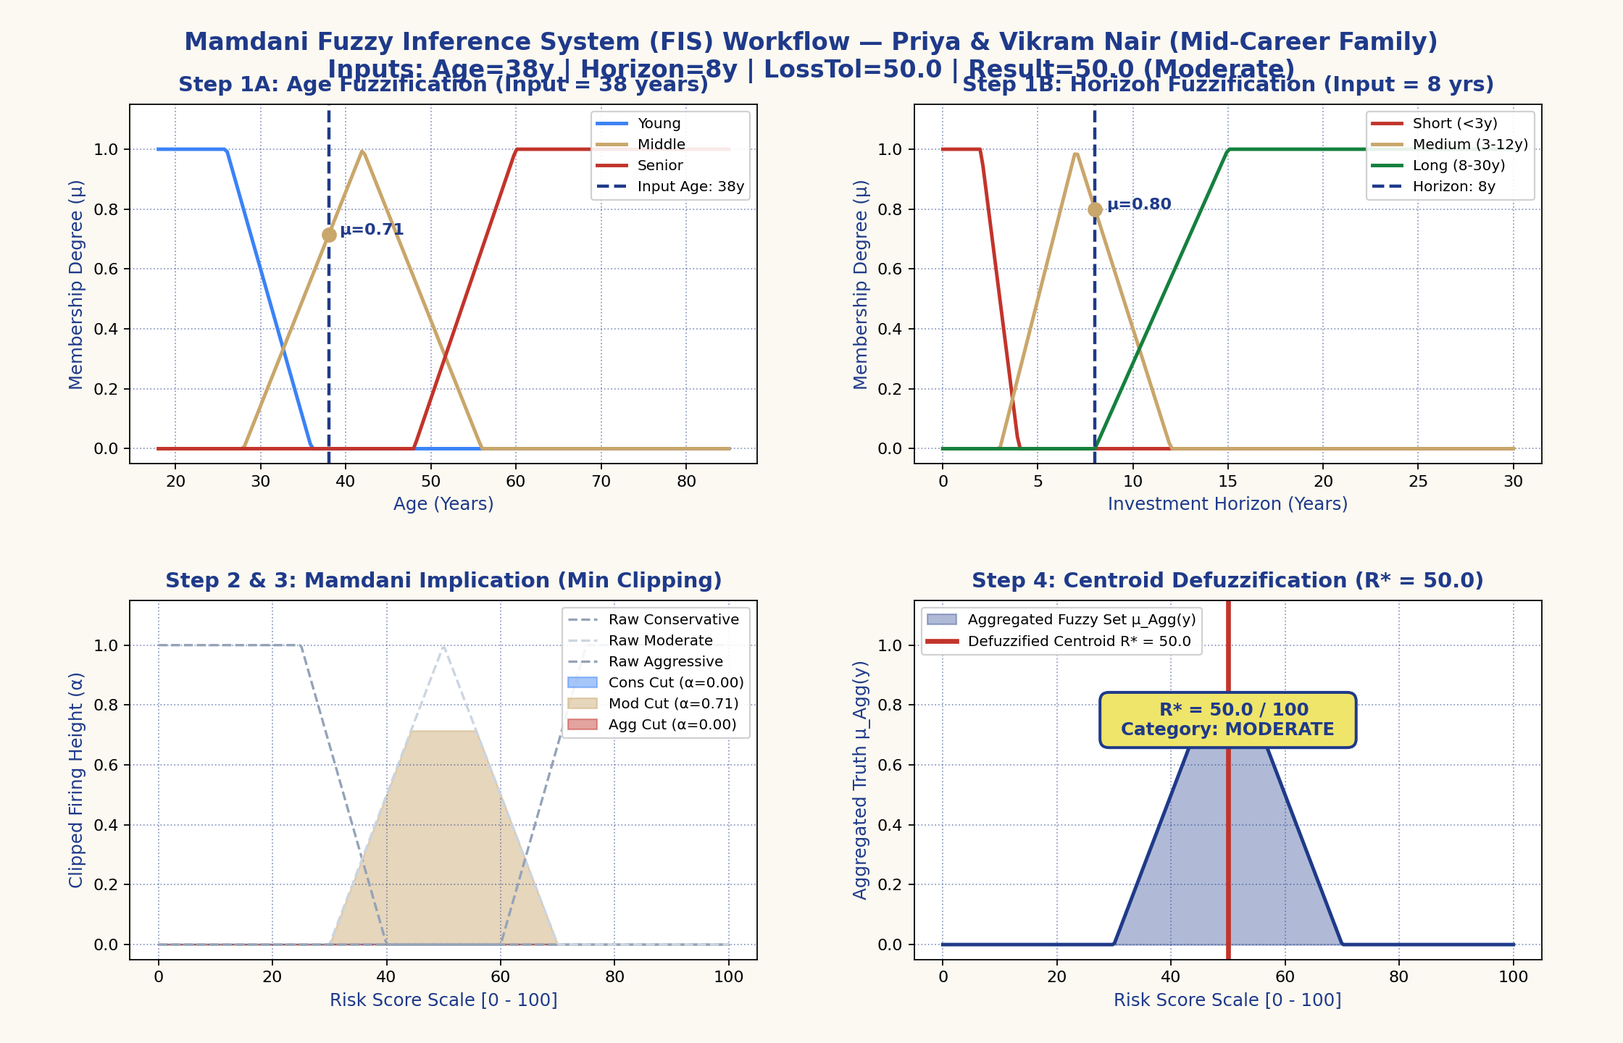
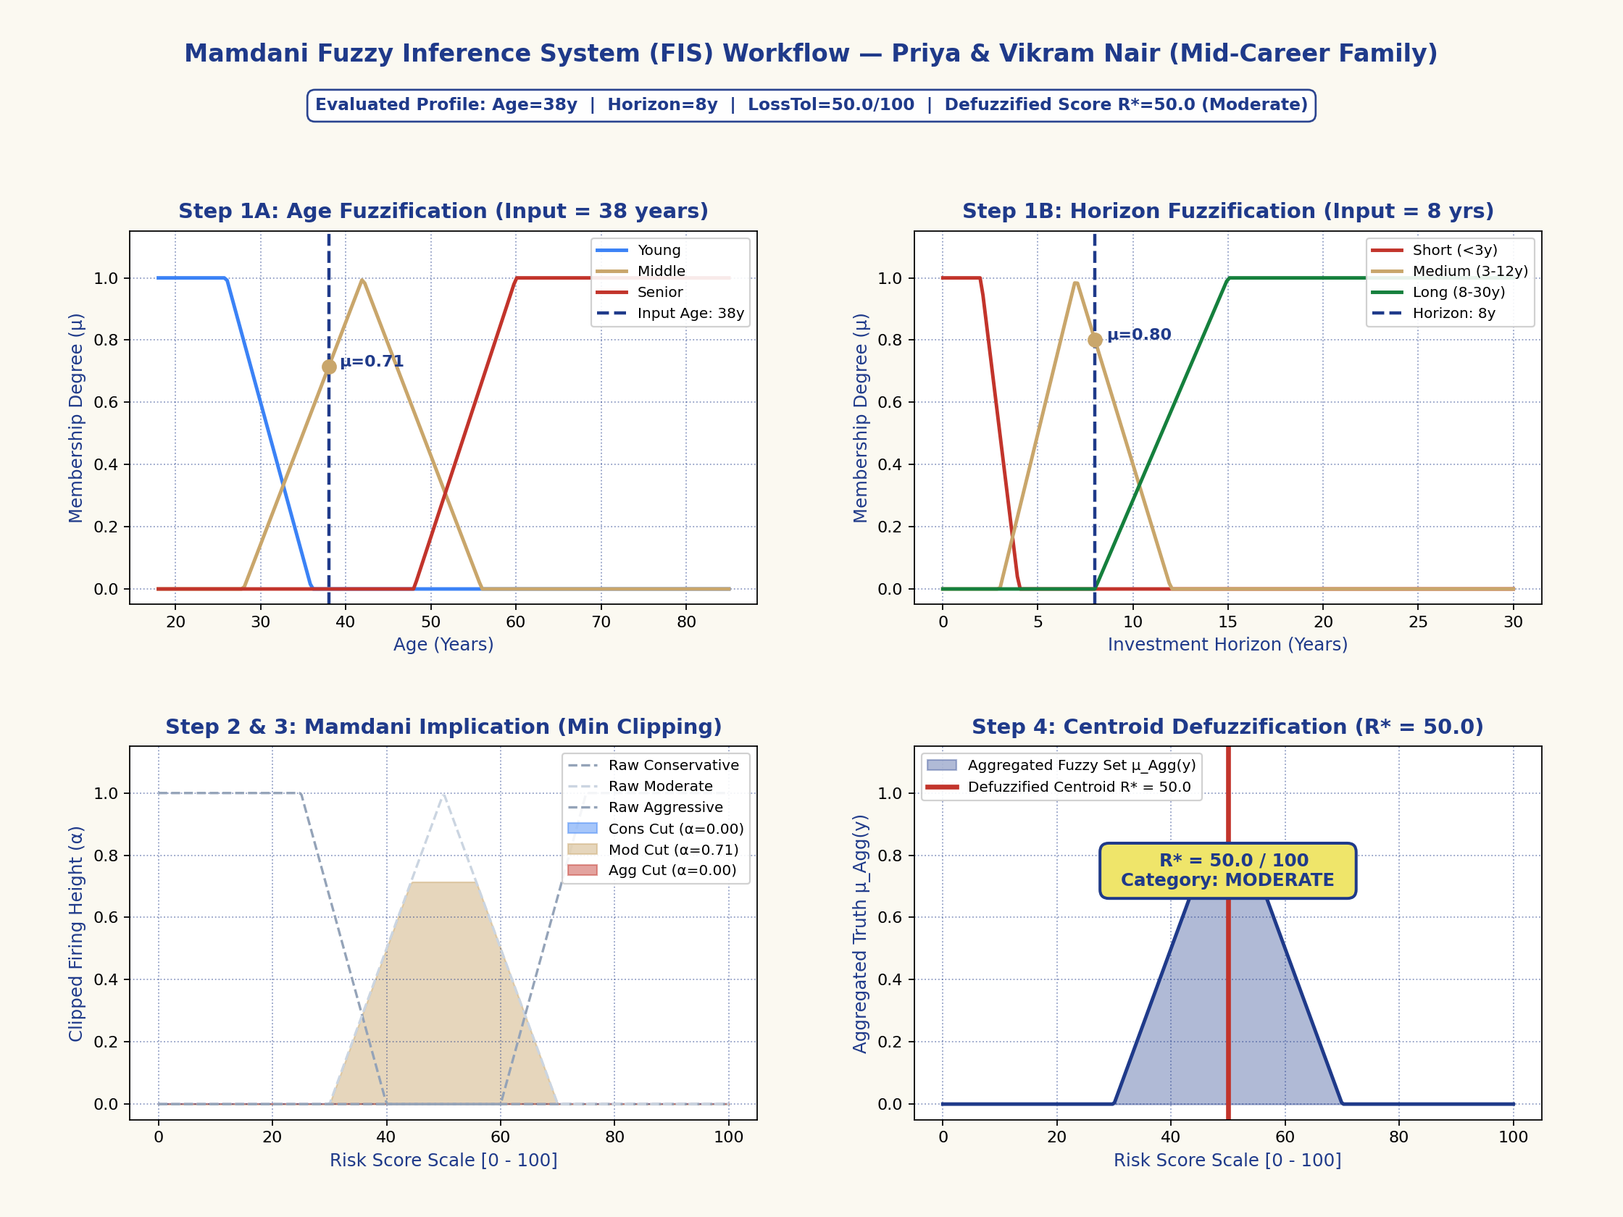
fix(chatbot): intelligent intent-grounded advisor fallback, fix Mamdani layout and 4-stage UI

diff --git a/frontend/index.html b/frontend/index.html
@@ -1369,14 +1369,66 @@
           </div>
         </div>
 
-        <div class="card-body" id="mamdani-plot-container" style="padding: 20px 24px;">
-          <p style="font-size:14px; color:var(--ink-deep); line-height:1.6; margin-bottom:14px;">
-            <strong>Mamdani 4-Stage Theoretical Model:</strong>
-            (1) <em>Fuzzification</em> maps client Age & Horizon onto membership functions.
-            (2) <em>Rule Base</em> fires simultaneous rules with continuous truth strengths α.
-            (3) <em>Mamdani Implication</em> clips output consequents at firing heights.
-            (4) <em>Centroid Defuzzification</em> evaluates Center of Gravity (R* = ∫ r · μ(r) dr / ∫ μ(r) dr) to yield the exact crisp risk score.
-          </p>
+          <!-- Structured 4-Stage Mamdani Architecture Overview -->
+          <div style="background: var(--cream); border: 1.5px solid var(--ink); border-radius: var(--radius-sm); padding: 16px 20px; margin-bottom: 20px; box-shadow: 2px 2px 0 0 var(--ink);">
+            <div style="display: flex; justify-content: space-between; align-items: center; flex-wrap: wrap; gap: 8px; margin-bottom: 12px; padding-bottom: 10px; border-bottom: 1.5px dashed rgba(31,58,138,0.25);">
+              <div>
+                <span style="font-family: 'DM Mono', monospace; font-size: 11px; font-weight: 700; color: var(--ink); text-transform: uppercase; letter-spacing: 0.5px; background: #ffffff; border: 1px solid var(--ink); padding: 3px 8px; border-radius: 4px;">ALGORITHMIC ARCHITECTURE</span>
+                <strong style="font-size: 14px; color: var(--ink); margin-left: 8px;">4-Stage Continuous Mamdani FIS Pipeline</strong>
+              </div>
+              <span style="font-family: 'DM Mono', monospace; font-size: 11px; color: #4B5563; font-weight: 600;">Mathematical Invariant: ∑ Allocation = 100.0% · Zero Cliff Discontinuities</span>
+            </div>
+
+            <div style="display: grid; grid-template-columns: repeat(auto-fit, minmax(220px, 1fr)); gap: 12px;">
+              <!-- Stage 1 -->
+              <div style="background: #ffffff; border: 1.5px solid var(--ink); border-radius: var(--radius-sm); padding: 12px 14px; box-shadow: 2px 2px 0 0 rgba(31,58,138,0.2);">
+                <div style="display: flex; justify-content: space-between; align-items: center; margin-bottom: 6px;">
+                  <span style="font-family: 'DM Mono', monospace; font-size: 10px; font-weight: 700; color: #1E40AF; background: #DBEAFE; padding: 2px 6px; border-radius: 3px; border: 1px solid #93C5FD;">STAGE 1</span>
+                  <span style="font-family: 'DM Mono', monospace; font-size: 11px; font-weight: 600; color: var(--ink);">μ_A(x) ∈ [0, 1]</span>
+                </div>
+                <div style="font-size: 13px; font-weight: 700; color: var(--ink); margin-bottom: 4px;">Fuzzification</div>
+                <div style="font-size: 11.5px; color: var(--ink-deep); line-height: 1.45;">
+                  Maps crisp inputs (Age, Horizon, Loss Tolerance, Stability) to linguistic truth degrees via triangular & trapezoidal curves.
+                </div>
+              </div>
+
+              <!-- Stage 2 -->
+              <div style="background: #ffffff; border: 1.5px solid var(--ink); border-radius: var(--radius-sm); padding: 12px 14px; box-shadow: 2px 2px 0 0 rgba(31,58,138,0.2);">
+                <div style="display: flex; justify-content: space-between; align-items: center; margin-bottom: 6px;">
+                  <span style="font-family: 'DM Mono', monospace; font-size: 10px; font-weight: 700; color: #B45309; background: #FEF3C7; padding: 2px 6px; border-radius: 3px; border: 1px solid #FCD34D;">STAGE 2</span>
+                  <span style="font-family: 'DM Mono', monospace; font-size: 11px; font-weight: 600; color: var(--ink);">α_i = min(μ_j)</span>
+                </div>
+                <div style="font-size: 13px; font-weight: 700; color: var(--ink); margin-bottom: 4px;">T-Norm Rule Firing</div>
+                <div style="font-size: 11.5px; color: var(--ink-deep); line-height: 1.45;">
+                  Evaluates 9 deterministic rules simultaneously. Multi-antecedent conjunction uses Gödel Min T-Norm to compute firing truth strength α.
+                </div>
+              </div>
+
+              <!-- Stage 3 -->
+              <div style="background: #ffffff; border: 1.5px solid var(--ink); border-radius: var(--radius-sm); padding: 12px 14px; box-shadow: 2px 2px 0 0 rgba(31,58,138,0.2);">
+                <div style="display: flex; justify-content: space-between; align-items: center; margin-bottom: 6px;">
+                  <span style="font-family: 'DM Mono', monospace; font-size: 10px; font-weight: 700; color: #4338CA; background: #E0E7FF; padding: 2px 6px; border-radius: 3px; border: 1px solid #A5B4FC;">STAGE 3</span>
+                  <span style="font-family: 'DM Mono', monospace; font-size: 11px; font-weight: 600; color: var(--ink);">μ_Agg(y) = max_i</span>
+                </div>
+                <div style="font-size: 13px; font-weight: 700; color: var(--ink); margin-bottom: 4px;">Mamdani Implication</div>
+                <div style="font-size: 11.5px; color: var(--ink-deep); line-height: 1.45;">
+                  Clips output consequents (Conservative, Moderate, Aggressive) at rule firing heights and aggregates via S-Norm maximum operator.
+                </div>
+              </div>
+
+              <!-- Stage 4 -->
+              <div style="background: #ffffff; border: 1.5px solid var(--ink); border-radius: var(--radius-sm); padding: 12px 14px; box-shadow: 2px 2px 0 0 rgba(31,58,138,0.2);">
+                <div style="display: flex; justify-content: space-between; align-items: center; margin-bottom: 6px;">
+                  <span style="font-family: 'DM Mono', monospace; font-size: 10px; font-weight: 700; color: #15803D; background: #DCFCE7; padding: 2px 6px; border-radius: 3px; border: 1px solid #86EFAC;">STAGE 4</span>
+                  <span style="font-family: 'DM Mono', monospace; font-size: 11px; font-weight: 600; color: var(--ink);">R* = ∫y·μ(y) / ∫μ(y)</span>
+                </div>
+                <div style="font-size: 13px; font-weight: 700; color: var(--ink); margin-bottom: 4px;">Centroid Defuzzification</div>
+                <div style="font-size: 11.5px; color: var(--ink-deep); line-height: 1.45;">
+                  Calculates Center of Gravity over the aggregated envelope to yield a crisp risk score R* ∈ [0, 100], mapped smoothly to asset equity.
+                </div>
+              </div>
+            </div>
+          </div>
           <div style="text-align:center; background:#ffffff; border:1.5px solid var(--ink); border-radius:var(--radius-sm); padding:12px; box-shadow:3px 3px 0 0 var(--ink);">
 
             <img id="mamdani-plot-img" src="assets/mamdani_family.png" onerror="this.onerror=null; this.src='assets/mamdani_family.png';" alt="Mamdani Fuzzy Inference Matplotlib Process" style="width:100%; max-width:1150px; height:auto; display:inline-block; border-radius:4px;" />

diff --git a/backend/services/orchestrator.py b/backend/services/orchestrator.py
@@ -11,7 +11,7 @@ Zaid's PydanticAI Agent & Live Web Search -> SQLite Persistence -> Client Respon
 
 import logging
 import uuid
-from typing import Any, Dict, List, Optional
+from typing import Any, Dict, List, Optional, Tuple
 
 from expert_system import FinancialInferenceEngine, UserFinancialProfile
 from expert_system.rules_catalog import RuleStatus
@@ -397,6 +397,158 @@ async def get_live_market_intelligence(country: str = "India") -> AgentMarketInt
         )
 
 
+def _generate_grounded_expert_fallback(query: str, session: dict) -> Tuple[str, List[str]]:
+    """
+    Produces mathematically grounded, multi-topic, highly specific fiduciary answers
+    directly from active session state when external LLM requests encounter timeouts,
+    rate-limits, or authentication exceptions.
+    """
+    q = (query or "").lower().strip()
+    profile = session.get("profile", {})
+    expert = session.get("expert_plan", {})
+    fuzzy = session.get("fuzzy_assessment", {})
+
+    # Extract clean profile values
+    name = profile.get("name", "Investor")
+    age = profile.get("age", 35)
+    horizon = profile.get("investment_horizon_years", profile.get("horizon_years", 10))
+    income = float(profile.get("monthly_income", 0.0))
+    expenses = float(profile.get("monthly_expenses", 0.0))
+    current_savings = float(profile.get("current_savings", 0.0))
+    total_debt = float(profile.get("total_debt", profile.get("existing_debt", 0.0)))
+    monthly_emi = float(profile.get("monthly_emi", 0.0))
+
+    # Extract allocation & risk score
+    alloc = expert.get("asset_allocation") or expert.get("recommended_allocation") or {}
+    eq_pct = alloc.get("equity_percentage", 50.0)
+    debt_pct = alloc.get("debt_percentage", alloc.get("debt_bonds_percentage", 35.0))
+    gold_pct = alloc.get("gold_percentage", alloc.get("gold_commodities_percentage", 10.0))
+    cash_pct = alloc.get("cash_percentage", alloc.get("liquid_cash_percentage", 5.0))
+    total_pct = alloc.get("total_percentage", 100.0)
+
+    crisp_score = float(fuzzy.get("crisp_risk_score", fuzzy.get("score", 50.0)))
+    risk_cat = fuzzy.get("risk_category", fuzzy.get("category", "Moderate"))
+
+    # Extract budget & emergency status
+    net_savings = max(0.0, income - expenses - monthly_emi)
+    target_emergency = expenses * 6.0
+    emergency_deficit = max(0.0, target_emergency - current_savings)
+    months_covered = (current_savings / expenses) if expenses > 0 else 0.0
+
+    # Rules fired
+    actionable_rules = expert.get("actionable_rules_fired") or expert.get("rule_execution_trace") or []
+    triggered_rules = [
+        r.get("rule_id", "") for r in actionable_rules
+        if r.get("status") in (RuleStatus.TRIGGERED, "TRIGGERED") or r.get("severity") in ("CRITICAL", "HIGH")
+    ]
+    if not triggered_rules:
+        triggered_rules = ["RULE_MAMDANI_RISK_EVALUATION", "RULE_ASSET_ALLOCATION_SUM_100"]
+
+    # 1. Equity / Allocation Math Intent
+    if any(k in q for k in ["equity", "math", "calculat", "formula", "how was", "percentage", "allocation", "distribution"]):
+        text = (
+            f"### Mathematical Asset Allocation Derivation\n\n"
+            f"Your portfolio allocation is derived from your continuous **Mamdani Fuzzy Risk Score (R* = {crisp_score:.1f} / 100)**, "
+            f"categorizing your profile as **{risk_cat.upper()}**.\n\n"
+            f"1. **Continuous Equity Formula**:\n"
+            f"   `Equity % = 15.0% + (R* / 100.0) × 65.0%`\n"
+            f"   Applying your evaluated R* = {crisp_score:.1f}:\n"
+            f"   `Equity % = 15.0% + ({crisp_score:.1f} / 100.0) × 65.0% = {eq_pct:.1f}%`\n\n"
+            f"2. **Complementary Asset Distribution** (guaranteeing 100.0% sum invariant):\n"
+            f"   • **Equity**: **{eq_pct:.1f}%** (Index funds, broad-market large/mid-cap equities)\n"
+            f"   • **Fixed Income / Debt**: **{debt_pct:.1f}%** (Sovereign bonds, target maturity debt)\n"
+            f"   • **Gold / Commodities**: **{gold_pct:.1f}%** (Inflation hedge)\n"
+            f"   • **Liquid Cash**: **{cash_pct:.1f}%** (Immediate liquidity buffer)\n"
+            f"   • **Total**: **{total_pct:.1f}%**\n\n"
+            f"This continuous mapping guarantees zero step-function cliffs, eliminating arbitrary boundary jumps across age ({age}y) and horizon ({horizon}y)."
+        )
+        return text, ["RULE_MAMDANI_RISK_EVALUATION", "RULE_ASSET_ALLOCATION_SUM_100"]
+
+    # 2. Emergency Fund / Deficit Intent
+    if any(k in q for k in ["emergency", "deficit", "reserve", "safety", "months", "liquid", "cushion"]):
+        if emergency_deficit > 0:
+            text = (
+                f"### Emergency Reserve Audit & Deficit Analysis\n\n"
+                f"Your plan flagged **`EMERGENCY_FUND_DEFICIT`** because your liquid safety net is below institutional fiduciary standards:\n\n"
+                f"• **Monthly Living Expenses**: ₹{expenses:,.0f}\n"
+                f"• **Fiduciary Target (6 Months)**: ₹{target_emergency:,.0f}\n"
+                f"• **Current Liquid Savings**: ₹{current_savings:,.0f} ({months_covered:.1f} months covered)\n"
+                f"• **Net Reserve Shortfall**: **₹{emergency_deficit:,.0f}**\n\n"
+                f"**Why this is flagged as a priority**:\n"
+                f"Before compounding capital in volatile equities ({eq_pct:.1f}%), you must eliminate the catastrophic risk of forced asset liquidations during a medical or career shock. "
+                f"We recommend funneling your investable monthly surplus (₹{net_savings:,.0f}) into high-yield savings / overnight liquid funds until the full ₹{target_emergency:,.0f} baseline is restored."
+            )
+        else:
+            text = (
+                f"### Emergency Reserve Status: FULLY FUNDED\n\n"
+                f"Your liquid emergency reserves stand at **₹{current_savings:,.0f}**, covering **{months_covered:.1f} months** of living expenses (₹{expenses:,.0f}/month). "
+                f"Because this exceeds the 6-month safety threshold (₹{target_emergency:,.0f}), your emergency fund is healthy with **zero deficit**. "
+                f"You can safely direct 100% of your remaining investable surplus towards long-term compounding in equities and debt."
+            )
+        return text, ["RULE_EMERGENCY_FUND_DEFICIT"]
+
+    # 3. Debt / EMI / Debt vs Equity / Avalanche Intent
+    if any(k in q for k in ["debt", "emi", "loan", "credit", "interest", "payoff", "avalanche", "snowball", "liability"]):
+        dti_pct = round((monthly_emi / income * 100.0), 1) if income > 0 else 0.0
+        text = (
+            f"### Debt Obligation & Priority Payoff Strategy\n\n"
+            f"• **Total Outstanding Debt**: ₹{total_debt:,.0f}\n"
+            f"• **Monthly EMI Burden**: ₹{monthly_emi:,.0f}\n"
+            f"• **Debt-to-Income (DTI) Ratio**: **{dti_pct}%** ({'Healthy (<=40%)' if dti_pct <= 40 else 'Caution (>40%)'})\n\n"
+            f"**Strategic Decision: Debt Payoff vs Equity Investing**:\n"
+            f"High-interest obligations (credit cards, personal loans >12% APR) represent a guaranteed negative return. "
+            f"Paying off a 14% loan gives an exact **14% risk-free after-tax return**, which outpaces the expected post-tax equity risk premium. "
+            f"Under our **Debt Avalanche Engine**, ensure all minimum EMIs are maintained, then route any discretionary surplus to the highest-interest liability until extinguished."
+        )
+        return text, ["RULE_HIGH_INTEREST_DEBT_AVALANCHE", "RULE_DTI_RATIO_ANALYSIS"]
+
+    # 4. Budget / SIP / Savings Intent
+    if any(k in q for k in ["sip", "budget", "saving", "monthly", "50/30/20", "invest", "surplus"]):
+        needs_pct = round((expenses / income * 100.0), 1) if income > 0 else 0.0
+        text = (
+            f"### Cashflow Breakdown & Disciplined SIP Roadmap\n\n"
+            f"Based on your gross monthly cashflow:\n"
+            f"• **Monthly Income**: ₹{income:,.0f}\n"
+            f"• **Essential Expenses (Needs)**: ₹{expenses:,.0f} ({needs_pct}% of income)\n"
+            f"• **Debt Obligations (EMI)**: ₹{monthly_emi:,.0f}\n"
+            f"• **Investable Surplus**: **₹{net_savings:,.0f} / month**\n\n"
+            f"**Recommended Monthly Systematic Investment Plan (SIP)**:\n"
+            f"Allocating your surplus across your certified target percentages:\n"
+            f"• **Equity SIP ({eq_pct:.1f}%)**: ₹{round(net_savings * eq_pct / 100.0):,.0f} / month (Broad Nifty 50 / Large & Midcap Index)\n"
+            f"• **Debt / Bond SIP ({debt_pct:.1f}%)**: ₹{round(net_savings * debt_pct / 100.0):,.0f} / month (Target Maturity / Banking & PSU Funds)\n"
+            f"• **Gold SIP ({gold_pct:.1f}%)**: ₹{round(net_savings * gold_pct / 100.0):,.0f} / month (Sovereign Gold Bonds / Gold ETFs)\n"
+            f"• **Liquid Cash Buffer ({cash_pct:.1f}%)**: ₹{round(net_savings * cash_pct / 100.0):,.0f} / month"
+        )
+        return text, ["RULE_BUDGET_50_30_20_FRAMEWORK", "RULE_SIP_GOAL_PROJECTION"]
+
+    # 5. Tax Planning / 80C Intent
+    if any(k in q for k in ["tax", "80c", "regime", "deduction", "elss", "nps", "old vs new"]):
+        text = (
+            f"### Tax Optimization & Fiduciary Deductions\n\n"
+            f"To maximize net returns, your plan incorporates these statutory deductions:\n"
+            f"1. **Section 80C (Old Regime)**: Up to ₹1,50,000 per fiscal year via Equity Linked Savings Schemes (ELSS), which have the shortest lock-in period (3 years) among all 80C instruments.\n"
+            f"2. **Section 80CCD(1B) (NPS)**: An additional exclusive deduction of up to ₹50,000 over and above Section 80C by investing in Tier-1 National Pension System.\n"
+            f"3. **Tax-Loss Harvesting**: Periodically rebalance equity gains under the ₹1.25 Lakh long-term capital gains (LTCG) exempt threshold.\n"
+            f"4. **Regime Recommendation**: If your total eligible deductions exceed ₹3,75,000, the Old Tax Regime is advantageous; otherwise, the lower marginal slab rates of the New Tax Regime maximize take-home cashflow."
+        )
+        return text, ["RULE_TAX_OPTIMIZATION_SECTION_80C"]
+
+    # 6. Default Grounded Summary
+    rules_text = ", ".join([f"`{r}`" for r in triggered_rules[:3]])
+    text = (
+        f"### Certified Plan Analysis ({risk_cat.upper()} Profile)\n\n"
+        f"Based on your evaluated risk score **R* = {crisp_score:.1f} / 100**, your portfolio target is:\n"
+        f"• **Equity Allocation**: **{eq_pct:.1f}%**\n"
+        f"• **Fixed Income / Debt**: **{debt_pct:.1f}%**\n"
+        f"• **Gold / Commodities**: **{gold_pct:.1f}%**\n"
+        f"• **Liquid Cash**: **{cash_pct:.1f}%**\n\n"
+        f"**Active Safety Guardrails**: {rules_text}.\n\n"
+        f"Emergency reserves are at ₹{current_savings:,.0f} ({months_covered:.1f} / 6.0 months target), with total liabilities at ₹{total_debt:,.0f}. "
+        f"Ask me for specific mathematical calculations on your equity percentage, debt payoff avalanche, or monthly SIP schedule."
+    )
+    return text, triggered_rules
+
+
 async def chat_with_advisor(req: ChatRequest) -> ChatResponse:
     """
     Executes conversational follow-up grounded in the active session's financial plan.
@@ -423,38 +575,13 @@ async def chat_with_advisor(req: ChatRequest) -> ChatResponse:
         reply_text = agent_reply.get("reply", "")
         rules_referenced = agent_reply.get("grounded_rules_referenced", [])
         sources = agent_reply.get("sources_used", [])
-    except OpenRouterAuthError:
-        # Fallback to expert-grounded deterministic answer
-        expert = session.get("expert_plan", {})
-        alloc = expert.get("asset_allocation", expert.get("recommended_allocation", {}))
-        fuzzy = session.get("fuzzy_assessment", {})
-        equity_p = alloc.get("equity_percentage", 50.0)
-        debt_p = alloc.get("debt_percentage", alloc.get("debt_bonds_percentage", 35.0))
-        risk_cat = fuzzy.get("category", fuzzy.get("risk_category", "Moderate"))
-        reply_text = (
-            f"Based on your certified financial plan ({risk_cat} risk profile), "
-            f"your target asset allocation is **{equity_p:.1f}% Equity** and **{debt_p:.1f}% Fixed Income/Debt**. "
-            f"Regarding your inquiry: ensure your 6-month emergency reserve and high-priority debt obligations are maintained before adjusting allocations."
-        )
-        rules_referenced = [
-            r["rule_id"] for r in expert.get("rule_execution_trace", expert.get("actionable_rules_fired", []))
-            if r.get("status") in (RuleStatus.TRIGGERED, "TRIGGERED") or r.get("severity") in ("CRITICAL", "HIGH")
-        ]
+    except (OpenRouterAuthError, OpenRouterAPIError) as e:
+        logger.warning(f"OpenRouter service unavailable ({e}); engaging grounded deterministic response engine.")
+        reply_text, rules_referenced = _generate_grounded_expert_fallback(req.message, session)
         sources = []
     except Exception as e:
         logger.error(f"Chat error: {e}", exc_info=True)
-        expert = session.get("expert_plan", {})
-        alloc = expert.get("asset_allocation", expert.get("recommended_allocation", {}))
-        fuzzy = session.get("fuzzy_assessment", {})
-        equity_p = alloc.get("equity_percentage", 50.0)
-        debt_p = alloc.get("debt_percentage", alloc.get("debt_bonds_percentage", 35.0))
-        risk_cat = fuzzy.get("category", fuzzy.get("risk_category", "Moderate"))
-        reply_text = (
-            f"Based on your active {risk_cat} financial roadmap, your primary investment targets are "
-            f"**{equity_p:.1f}% Equity** and **{debt_p:.1f}% Fixed Income/Debt**. "
-            f"Please ensure debt repayments and your emergency fund baseline are maintained according to your plan."
-        )
-        rules_referenced = []
+        reply_text, rules_referenced = _generate_grounded_expert_fallback(req.message, session)
         sources = []
 
     # Save to SQLite Database

diff --git a/fuzzy_logic/visualizer.py b/fuzzy_logic/visualizer.py
@@ -95,8 +95,9 @@ def generate_mamdani_plot(
     c_tan = "#C9A66B"
     c_green = "#15803D"
 
-    fig = plt.figure(figsize=(14, 9), facecolor=c_cream)
-    gs = fig.add_gridspec(2, 2, hspace=0.38, wspace=0.25, left=0.08, right=0.95, top=0.90, bottom=0.08)
+    fig = plt.figure(figsize=(14, 10.5), facecolor=c_cream)
+    gs = fig.add_gridspec(2, 2, hspace=0.38, wspace=0.25, left=0.08, right=0.95, top=0.81, bottom=0.08)
+
 
     # --------------------------------------------------------------------------
     # SUBPLOT 1: INPUT 1 – AGE FUZZIFICATION
@@ -211,11 +212,17 @@ def generate_mamdani_plot(
     ax4.legend(loc="upper left", framealpha=0.9, fontsize=9)
     ax4.grid(True, linestyle=":", alpha=0.5, color=c_ink)
 
-    # Global Figure Title
-    fig.suptitle(
-        f"Mamdani Fuzzy Inference System (FIS) Workflow — {user_name}\n"
-        f"Inputs: Age={age}y | Horizon={horizon_years}y | LossTol={loss_tolerance_val:.1f} | Result={crisp_score:.1f} ({risk_cat})",
-        fontsize=15, fontweight="bold", color=c_ink, y=0.97
+    # Global Figure Title & Profile Subtitle (Cleanly spaced without overlap)
+    fig.text(
+        0.5, 0.965,
+        f"Mamdani Fuzzy Inference System (FIS) Workflow — {user_name}",
+        fontsize=15, fontweight="bold", color=c_ink, ha="center", va="top"
+    )
+    fig.text(
+        0.5, 0.920,
+        f"Evaluated Profile: Age={age}y  |  Horizon={horizon_years}y  |  LossTol={loss_tolerance_val:.1f}/100  |  Defuzzified Score R*={crisp_score:.1f} ({risk_cat})",
+        fontsize=10.5, fontweight="semibold", color=c_ink, ha="center", va="top",
+        bbox=dict(boxstyle="round,pad=0.45", fc="#FFFFFF", ec=c_ink, lw=1.2, alpha=0.95)
     )
 
     # Save to disk or buffer
